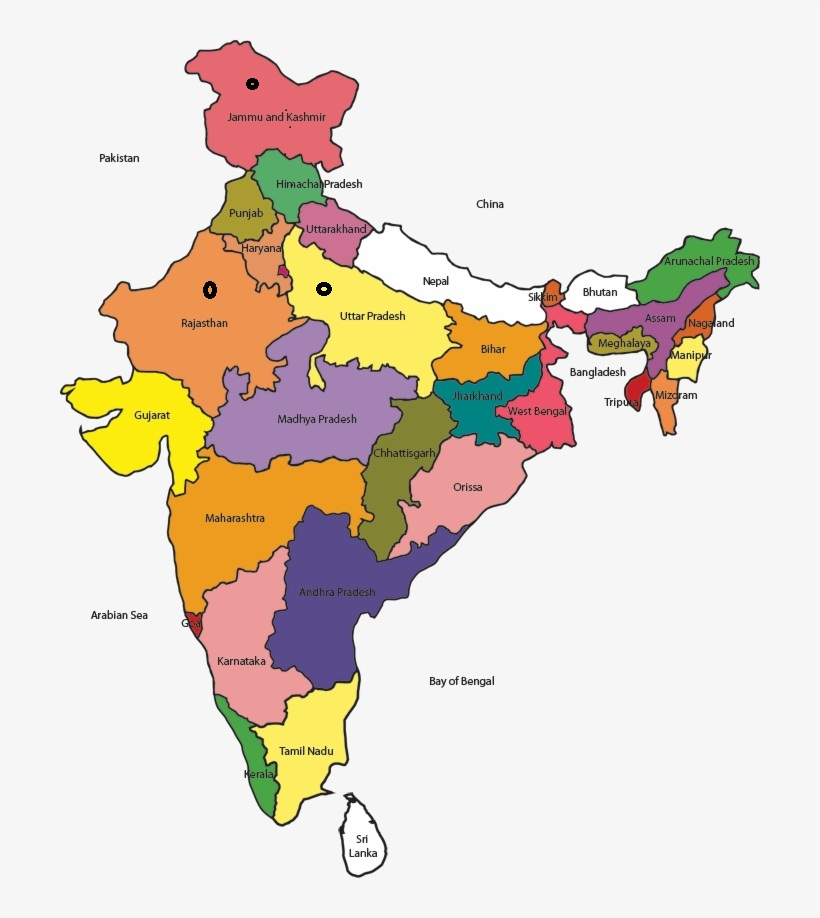
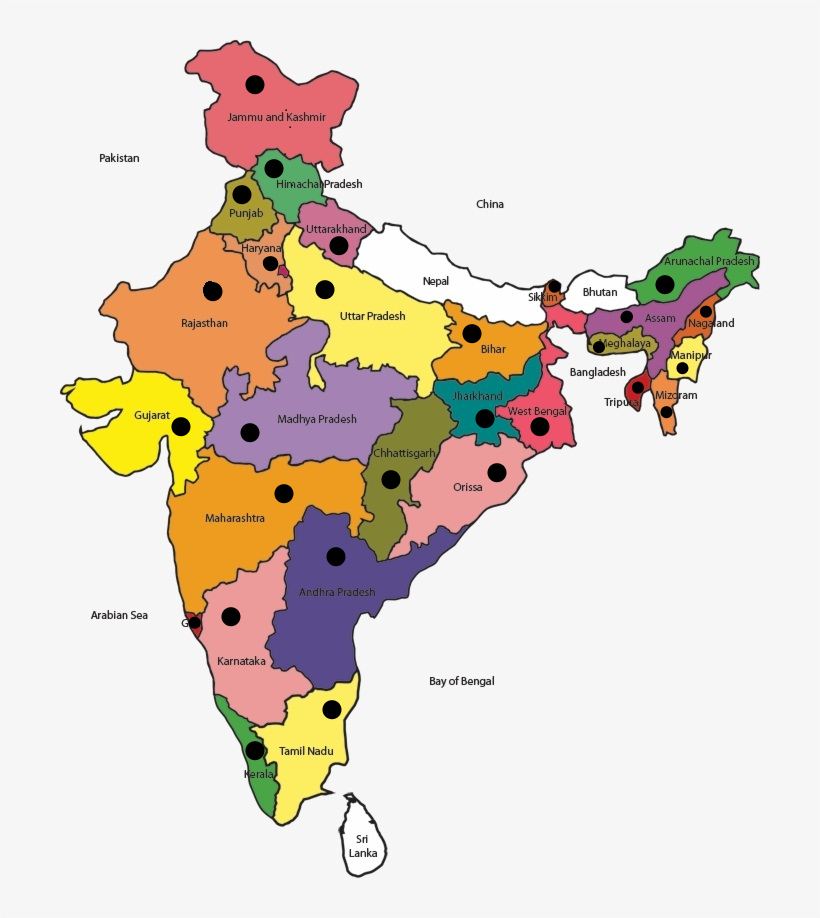
updated the experiment 1

diff --git a/s6_Internet Programming lab(CS8561)/exp_1( India Map)/index.html b/s6_Internet Programming lab(CS8561)/exp_1( India Map)/index.html
@@ -7,16 +7,17 @@
     <title>Document</title>
 </head>
 <body>
-   
+   <h1>Touch the doted points to know about the states in India</h1>
     <img src="indiamap.png" alt="Workplace" usemap="#workmap" >
-
+      
 <map name="workmap">
   
-  <area shape="circle" coords="291,186,50" alt="Phone" href="haryana.html">
-  <area shape="circle" coords="253,83,30" alt="Kashmir" href="kashmir.html">
+  <area shape="circle" coords="253,83,10" alt="Kashmir" href="kashmir.html">
+  <area shape="circle" coords="291,186,50" alt="himachel_pradesh" href="himachel_pradesh.html">
+  <area shape="circle" coords="325,289,30" alt="uttar pradesh" href="uttar.html">
   
   <area shape="circle" coords="291,186,50" alt="Phone" href=".html">
-  <area shape="circle" coords="325,289,30" alt="uttar pradesh" href="uttar.html">
+  
 </map>
 
 </body>
